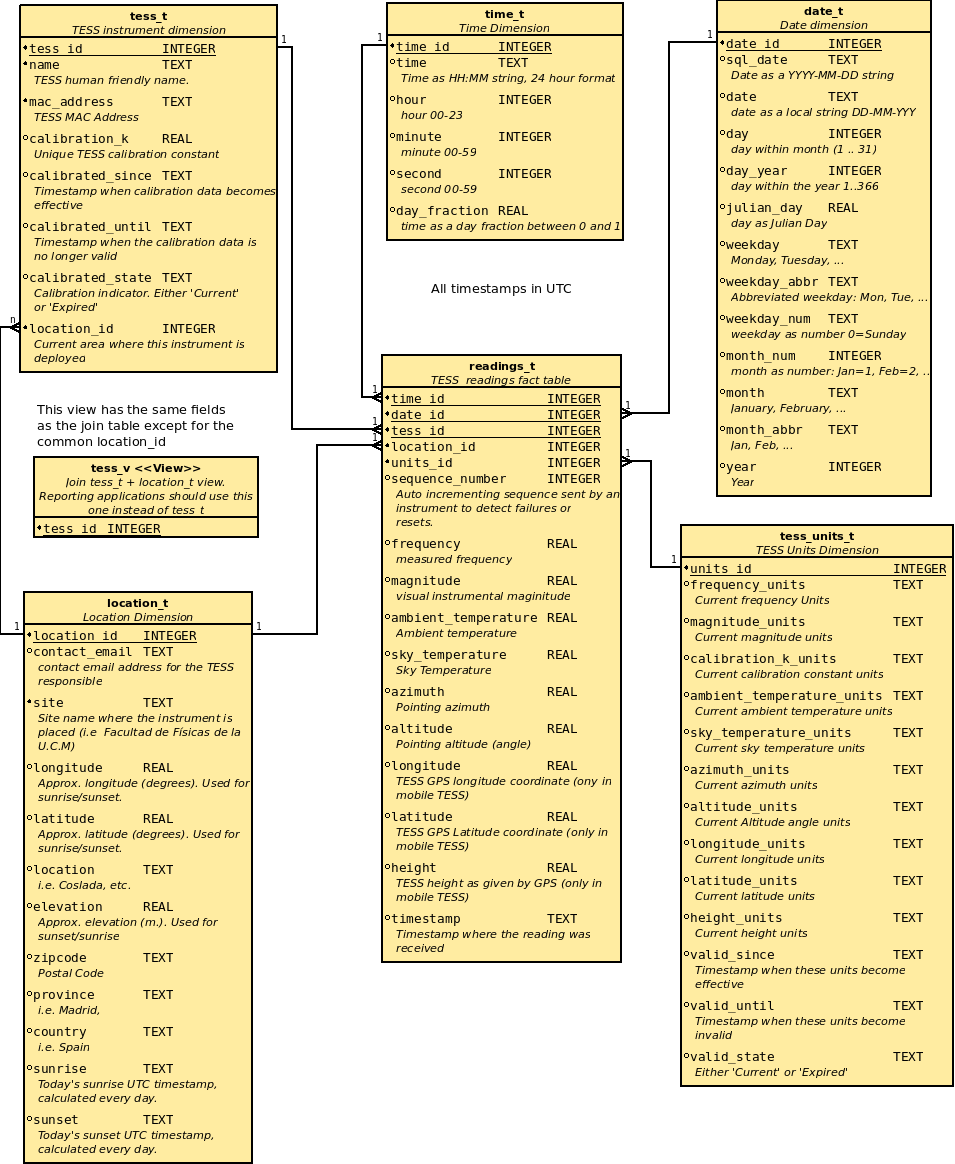
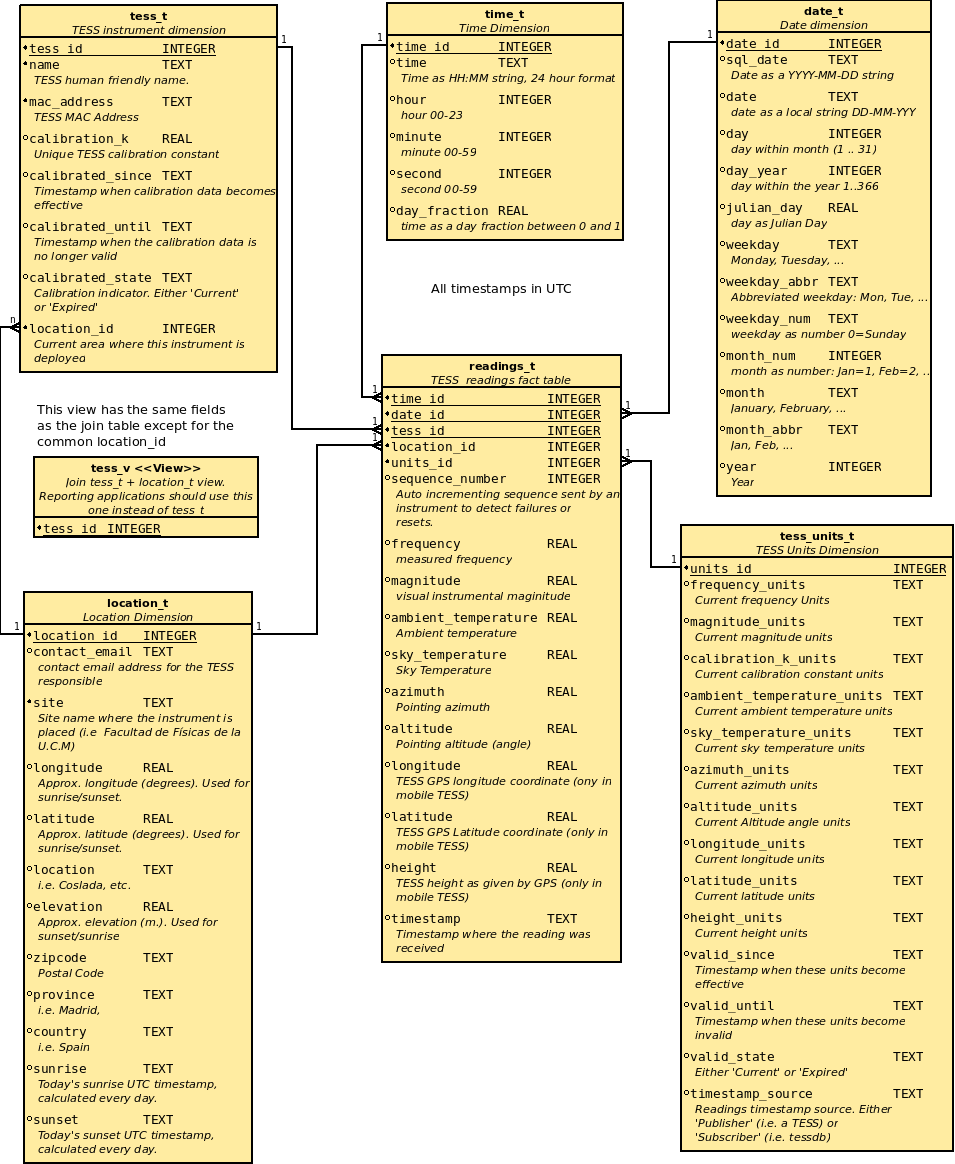
added a timestamp source feature

Changed region(s): [[0.6984, 0.9278, 1.0, 0.9897]]

diff --git a/tessdb/sqlite3/tess_units.py b/tessdb/sqlite3/tess_units.py
@@ -63,7 +63,8 @@ DEFAULT_UNITS = {
     "height_units"              : "m",
     "valid_since"               : utils.START_TIME,
     "valid_until"               : utils.INFINITE_TIME,
-    "valid_state"               : utils.CURRENT
+    "valid_state"               : utils.CURRENT,
+    "timestamp_source"          : "Subscriber"
 }
 
 
@@ -93,7 +94,8 @@ def _populate(transaction, rows):
             height_units,
             valid_since,
             valid_until,
-            valid_state
+            valid_state,
+            timestamp_source
         ) VALUES (
             :units_id,
             :frequency_units,
@@ -107,7 +109,8 @@ def _populate(transaction, rows):
             :height_units,
             :valid_since,
             :valid_until,
-            :valid_state
+            :valid_state,
+            :timestamp_source
         )''', rows)
 
 
@@ -123,7 +126,10 @@ class TESSUnits(Table):
     def __init__(self, pool):
         '''Create and populate the SQLite Units Table'''
         Table.__init__(self, pool)
-        self.id = None
+        # Cached row ids
+        self._id = {}
+        self._id['Publisher']  = None
+        self._id['Subscriber'] = None
 
 
     def table(self):
@@ -148,7 +154,8 @@ class TESSUnits(Table):
             height_units              REAL,
             valid_since               TEXT,
             valid_until               TEXT,
-            valid_state               TEXT
+            valid_state               TEXT,
+            timestamp_source          TEXT
             );
             '''
         )
@@ -182,17 +189,19 @@ class TESSUnits(Table):
 
 
     @inlineCallbacks
-    def latest(self):
+    def latest(self, timestamp_source="Subscriber"):
 
-        def queryLatest(dbpool):
-            row = {'valid_state': utils.CURRENT }
+        def queryLatest(dbpool, timestamp_source):
+            row = {'valid_state': utils.CURRENT, 'timestamp_source': timestamp_source }
             return dbpool.runQuery(
             '''
-            SELECT units_id FROM tess_units_t WHERE valid_state == :valid_state
+            SELECT units_id FROM tess_units_t 
+            WHERE valid_state == :valid_state 
+            AND timestamp_source == :timestamp_source
             ''', row)
 
-        if self.id is None:
-            row = yield queryLatest(self.pool)
-            self.id = row[0][0]
-        returnValue(self.id)
+        if self._id[timestamp_source] is None:
+            row = yield queryLatest(self.pool, timestamp_source)
+            self._id[timestamp_source] = row[0][0]
+        returnValue(self._id[timestamp_source])
    

diff --git a/tessdb/mqttservice.py b/tessdb/mqttservice.py
@@ -272,7 +272,13 @@ class MQTTService(ClientService):
             log.error('Invalid JSON in payload={payload}', payload=payload)
             log.error('{excp!r}', excp=e)
             return
-        row['tstamp'] = now     # As a datetime instead of string
+
+        # Find out existing timestamp. If not, timestamp it
+        if 'tstamp' in row:
+            row['tstamp_src'] = "Publisher"
+        else:
+            row['tstamp_src'] = "Subscriber"
+            row['tstamp'] = now     # As a datetime instead of string
 
         # Discard retained messages to avoid duplicates in the database
         if retain:

diff --git a/tessdb/sqlite3/tess_readings.py b/tessdb/sqlite3/tess_readings.py
@@ -203,7 +203,7 @@ class TESSReadings(Table):
         row['tstamp']   = now.strftime(utils.TSTAMP_FORMAT)
         row['instr_id'] = tess[0]
         row['loc_id']   = tess[3]
-        row['units_id'] = yield self.parent.tess_units.latest()
+        row['units_id'] = yield self.parent.tess_units.latest(timestamp_source=row['tstamp_src'])
         log.debug("TESSReadings.update(): About to write {row!s}", row=row)
         n = self.which(row)
         # Get the appropriate decoder function
